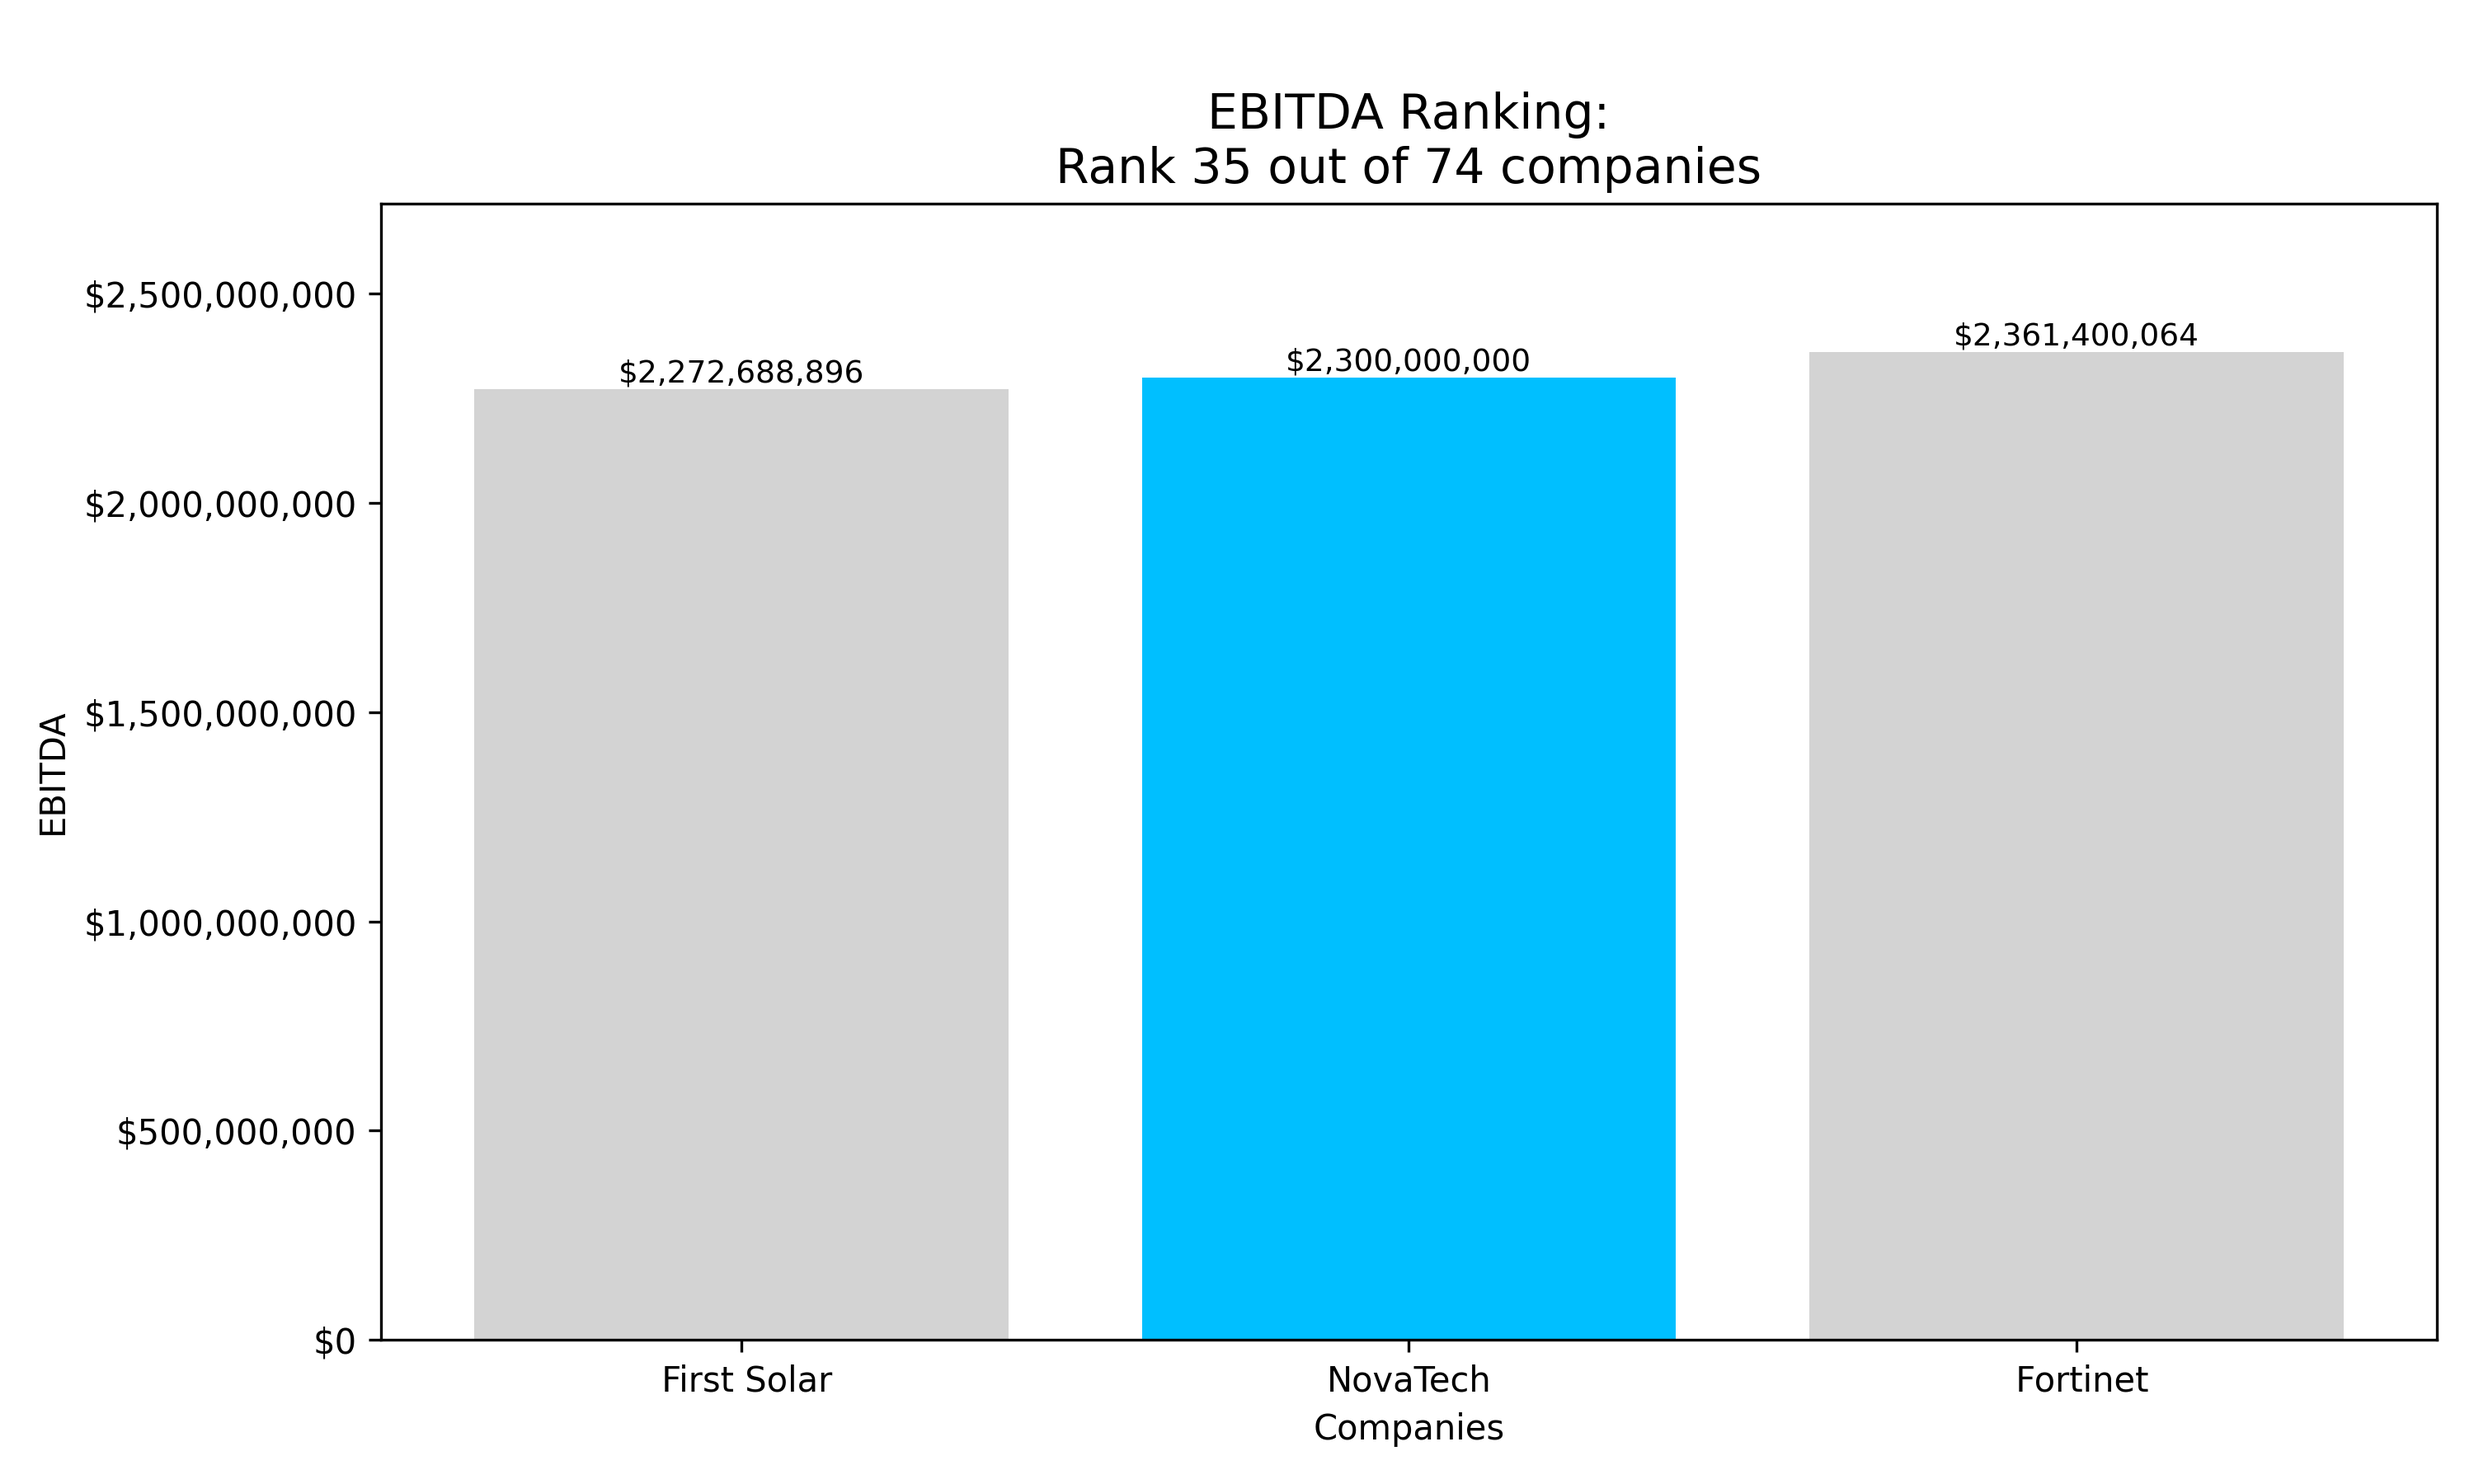
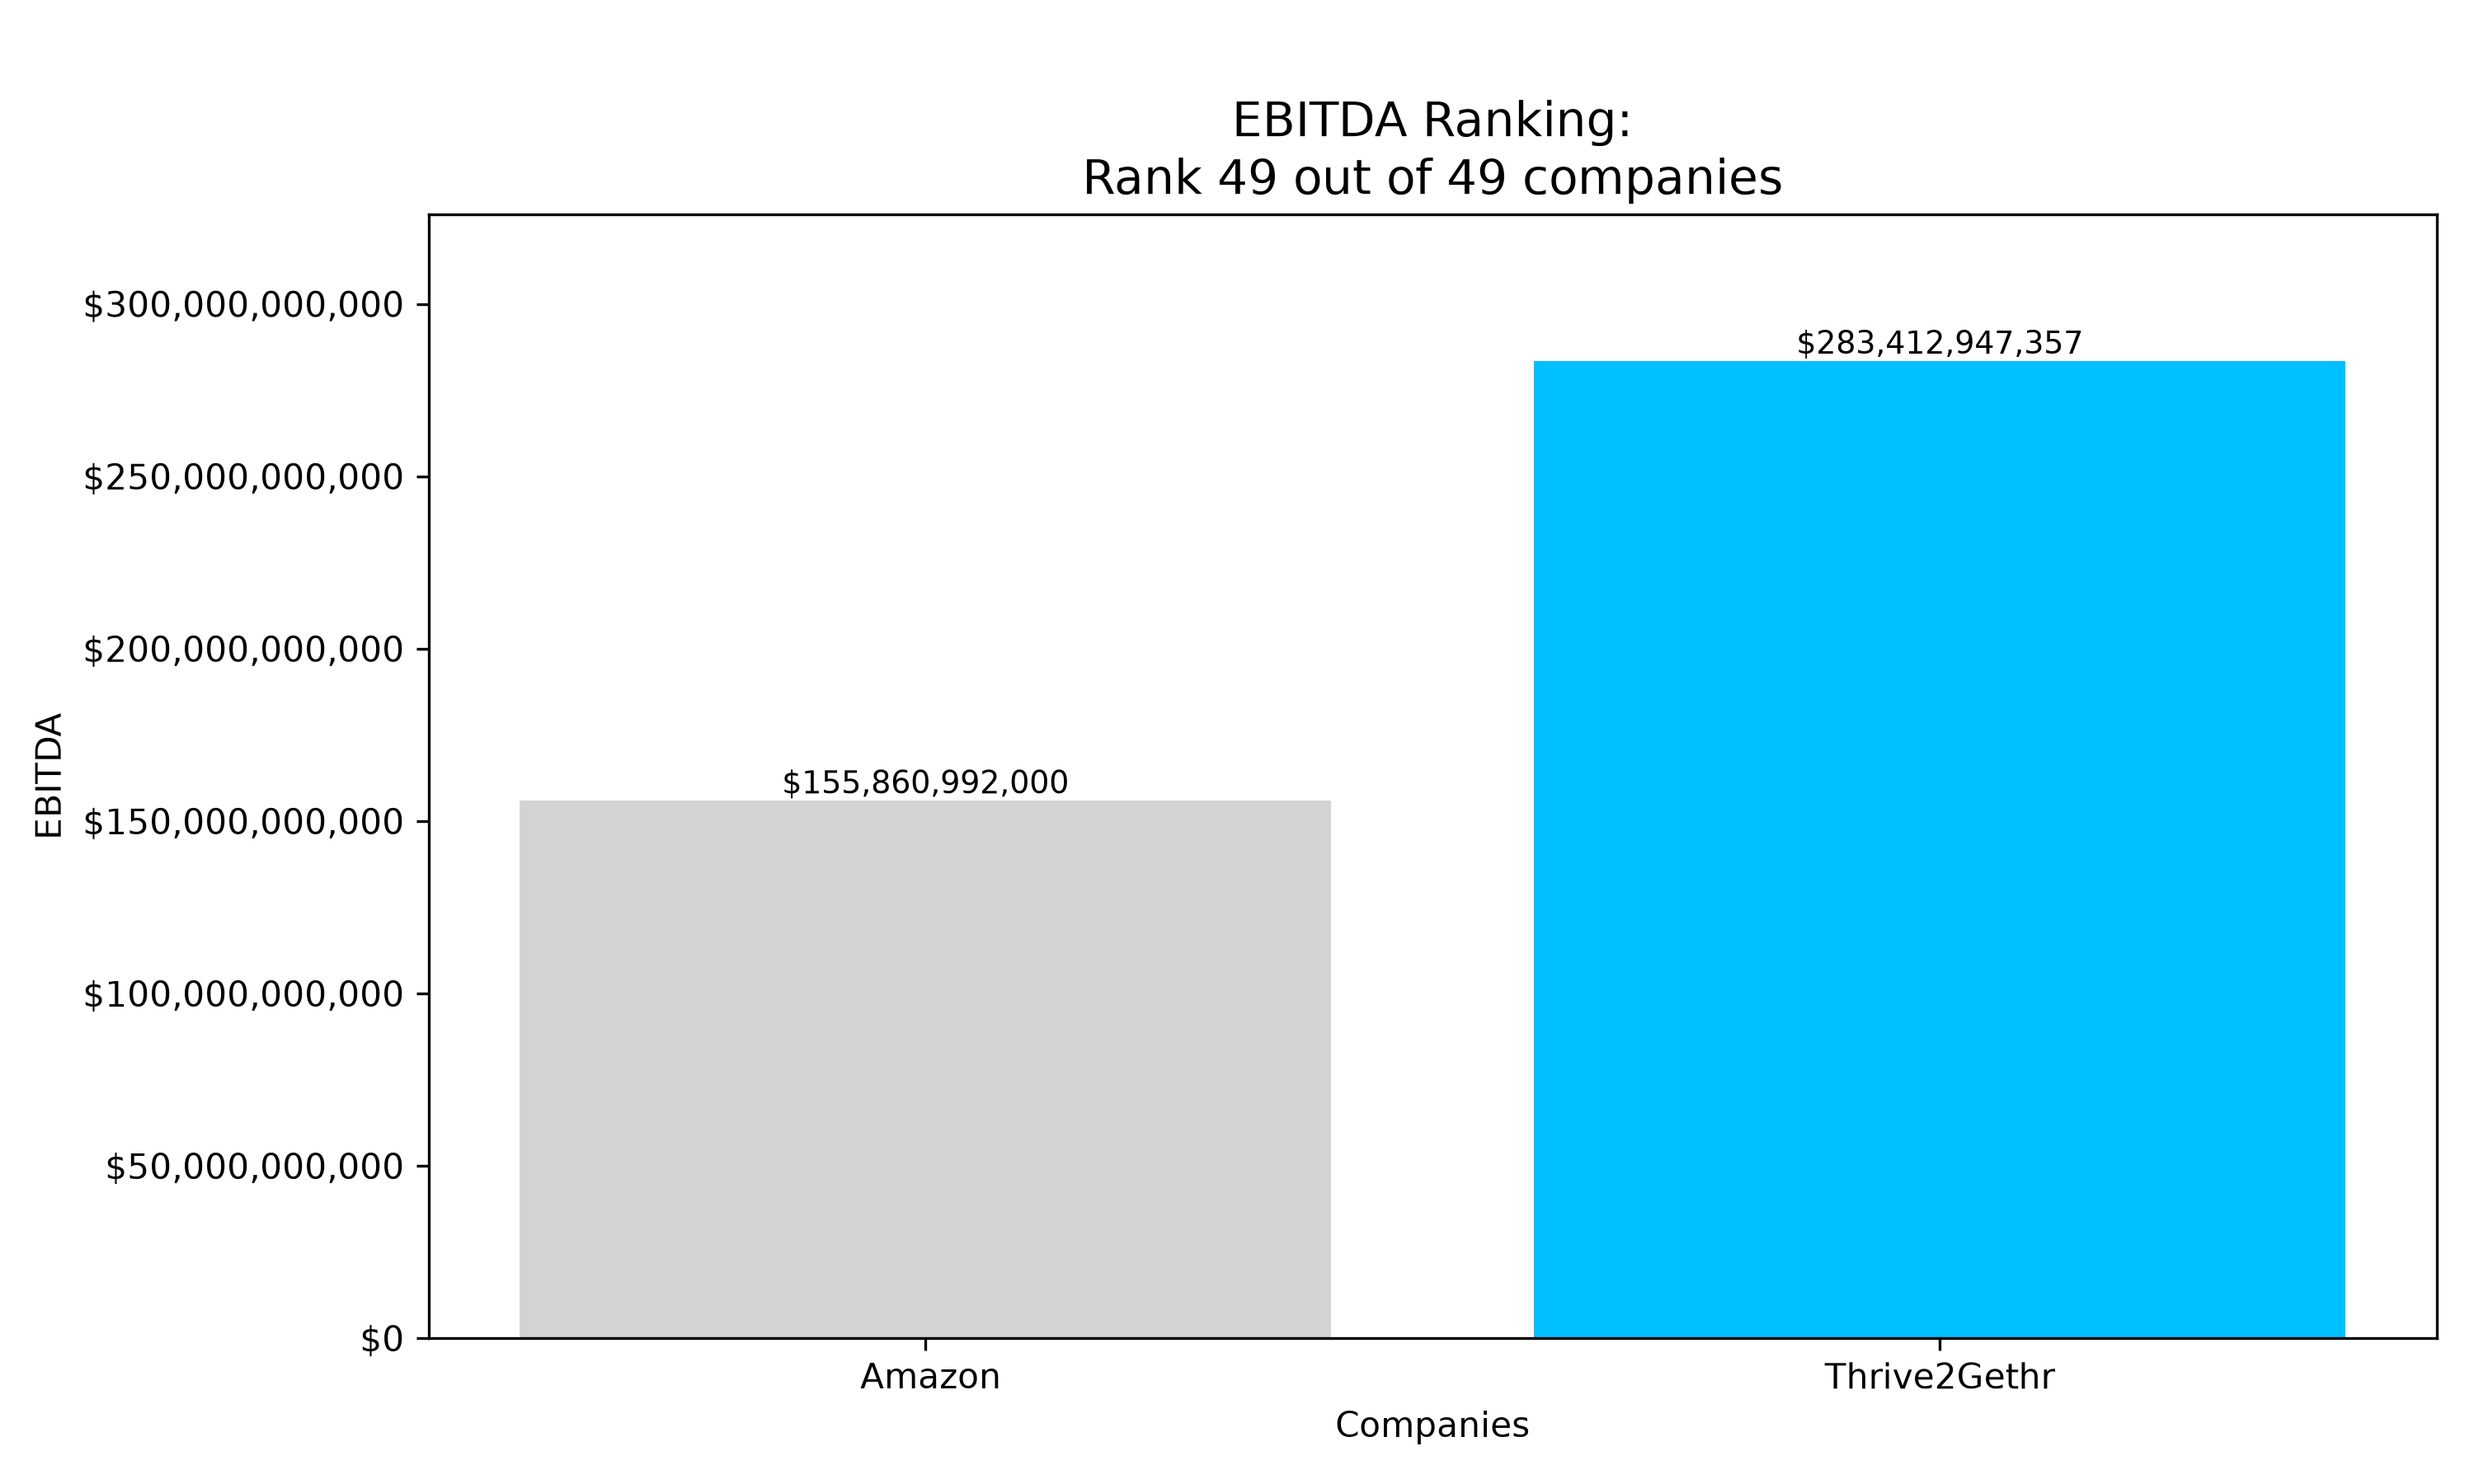
Add VSCode settings and update about page layout; replace ranking images

diff --git a/about.html b/about.html
@@ -191,9 +191,9 @@
     <h1>Learn About Us</h1>
 
     <section class="intro" aria-label="How Finance Analyzer works">
-      <div>
+      <div> 
         <h2 class="section-title">How It Works</h2>
-        <div class="copy">
+        
           <p class="lead"><span class="arrow">→</span>Evaluate Your Organization’s Financial Performance</p>
           <ul>
             <li>Compare profitability, operational efficiency and cash flow against S&amp;P 500 industry peers</li>
